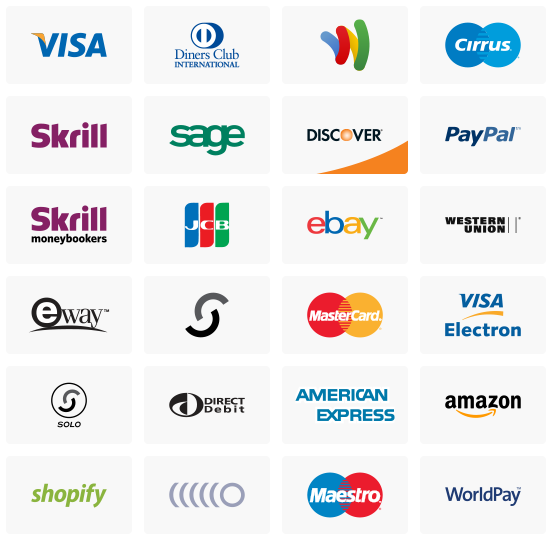
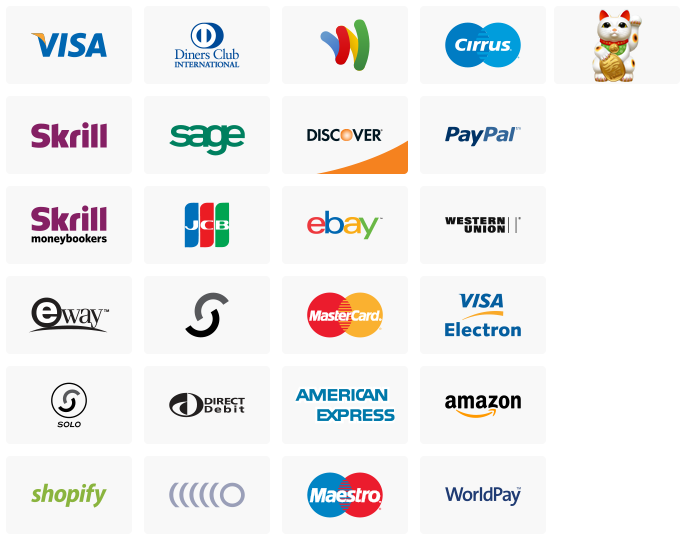
Progress

diff --git a/src/components/cc-input/cc-input.tsx b/src/components/cc-input/cc-input.tsx
@@ -5,28 +5,35 @@ import {
 } from '@stencil/core';
 
 @Component({
-    tag: "cc-input",
-    styleUrl: "cc-input.scss",
+    tag: 'cc-input',
+    styleUrl: 'cc-input.scss',
     shadow: true
 })
 export class CcInputComponent {
     @Prop() cards: string;
-    @State() cardType: string;
+    @State() acceptAllCards: boolean;
+    @State() cardVendor: string = 'cat';
     @State() isValid: boolean;
-
-    public props = {
-        class: `cc-icon ${this.cardType}`
-    };
+    @State() shake: string = '';
 
     render() {
-        const cards = this.cards.split(",");
-        const cardItems = cards.map(card => <li>{card}</li>);
-        let cardType = `cc-icon ${this.cardType}`;
+        let cardItems;
+
+        if (this.cards.split(',').length === 0) {
+            this.acceptAllCards = true;
+        } else {
+            this.acceptAllCards = false;
+            const cards = this.cards.split(',');
+            cardItems = cards.map(card => <li>{card}</li>);
+        }
+
+        const cardVendor = `cc-icon ${this.cardVendor}`;
+        const gridClass = `grid-mc-gridface ${this.shake}`
 
         return (
-            <div class="grid-mc-gridface">
+            <div class={gridClass}>
                 <span class="cc-input-wrapper cc-material">
-                    <span class={cardType} />
+                    <span class={cardVendor} />
 
                     <input
                         onKeyDown={event => this.handleInput(event)}
@@ -52,7 +59,7 @@ export class CcInputComponent {
                 </span>
                 <div class="allowed-cards-hint">
                     <span>We accept the following cards</span>
-                    <ul>{cardItems}</ul>
+                    <ul>{ cardItems }</ul>
                 </div>
             </div>
         );
@@ -66,12 +73,16 @@ export class CcInputComponent {
      */
     isNumber(e: any): boolean {
         const charCode = e.which ? e.which : e.keyCode;
-        if (charCode > 31 && (charCode < 48 || charCode > 57)) {
-            e.preventDefault();
 
+        // Letters
+        if (charCode > 31 && (charCode < 48 || charCode > 57)) {
+            this.shake = 'shaker';
+
+            e.preventDefault();
             return false;
         }
 
+        this.shake = '';
         return true;
     }
 
@@ -82,9 +93,8 @@ export class CcInputComponent {
      * @param {string} cardNumber
      * @returns {string}
      */
-    getCardType(cardNumber: string): string {
+    getCardVendor(cardNumber: string): string {
         const visaRegEx = new RegExp('^4');
-        const mastercardRegEx = new RegExp('/^(5[1-5][0-9]{14}|2(22[1-9][0-9]{12}|2[3-9][0-9]{13}|[3-6][0-9]{14}|7[0-1][0-9]{13}|720[0-9]{12}))$/');
         const amexRegEx = new RegExp('^3[47]');
 
         // Visa
@@ -93,7 +103,7 @@ export class CcInputComponent {
         }
 
         // Mastercard
-        if (mastercardRegEx.test(cardNumber) !== null) {
+        if (/^(5[1-5][0-9]{14}|2(22[1-9][0-9]{12}|2[3-9][0-9]{13}|[3-6][0-9]{14}|7[0-1][0-9]{13}|720[0-9]{12}))$/.test(cardNumber)) {
             return 'mastercard';
         }
 
@@ -101,6 +111,8 @@ export class CcInputComponent {
         if (cardNumber.match(amexRegEx) !== null) {
             return 'amex';
         }
+
+        return 'cat';
     }
 
     /**
@@ -110,8 +122,8 @@ export class CcInputComponent {
      */
     handleInput(e: any) {
         if (this.isNumber(e)) {
-            console.log(this.getCardType(e.target.value));
-            this.cardType = this.getCardType(e.target.value);
+            console.log(this.getCardVendor(e.target.value));
+            this.cardVendor = this.getCardVendor(e.target.value);
 
             return false;
         }

diff --git a/src/components.d.ts b/src/components.d.ts
@@ -2,16 +2,14 @@
  * This is an autogenerated file created by the Stencil compiler.
  * It contains typing information for all components that exist in this project.
  */
+/* tslint:disable */
 
 import '@stencil/core';
 
-declare global {
-  namespace JSX {
-    interface Element {}
-    export interface IntrinsicElements {}
-  }
-  namespace JSXElements {}
 
+
+
+declare global {
   interface HTMLElement {
     componentOnReady?: () => Promise<this | null>;
   }
@@ -23,41 +21,45 @@ declare global {
   }
 
   interface HTMLAttributes {}
-}
-
-
-declare global {
 
   namespace StencilComponents {
+
     interface CcInput {
       'cards': string;
     }
   }
 
-  interface HTMLCcInputElement extends StencilComponents.CcInput, HTMLStencilElement {}
 
-  var HTMLCcInputElement: {
-    prototype: HTMLCcInputElement;
-    new (): HTMLCcInputElement;
-  };
-  interface HTMLElementTagNameMap {
-    'cc-input': HTMLCcInputElement;
-  }
-  interface ElementTagNameMap {
-    'cc-input': HTMLCcInputElement;
-  }
+    interface HTMLCcInputElement extends StencilComponents.CcInput, HTMLStencilElement {}
+
+    var HTMLCcInputElement: {
+      prototype: HTMLCcInputElement;
+      new (): HTMLCcInputElement;
+    };
+    
+
   namespace JSX {
-    interface IntrinsicElements {
-      'cc-input': JSXElements.CcInputAttributes;
+    interface Element {}
+    export interface IntrinsicElements {
+    'cc-input': JSXElements.CcInputAttributes;
     }
   }
+
   namespace JSXElements {
+
     export interface CcInputAttributes extends HTMLAttributes {
       'cards'?: string;
     }
   }
-}
 
+  interface HTMLElementTagNameMap {
+    'cc-input': HTMLCcInputElement
+  }
+
+  interface ElementTagNameMap {
+    'cc-input': HTMLCcInputElement;
+  }
+}
 declare global { namespace JSX { interface StencilJSX {} } }
 
 export declare function defineCustomElements(window: any): void;

diff --git a/src/components/cc-input/cc-input.scss b/src/components/cc-input/cc-input.scss
@@ -2,6 +2,33 @@ $md-focus: #1e88e5;
 $md-gray: #9e9e9e;
 $md-light-gray: #e0e0e0;
 
+@mixin standard-curve($property, $timing) {
+    transition: $property $timing cubic-bezier(0.4, 0, 0.2, 1);
+}
+
+@keyframes shake {
+    10%, 90% {
+      transform: translate3d(-1px, 0, 0);
+    }
+
+    20%, 80% {
+      transform: translate3d(2px, 0, 0);
+    }
+
+    30%, 50%, 70% {
+      transform: translate3d(-4px, 0, 0);
+    }
+
+    40%, 60% {
+      transform: translate3d(4px, 0, 0);
+    }
+}
+
+.shaker {
+    animation: shake 0.82s cubic-bezier(.36, .07, .19, .97) both;
+    transform: translate3d(0, 0, 0);
+}
+
 @font-face {
     font-family: 'Material Icons';
     font-style: normal;
@@ -22,9 +49,6 @@ $md-light-gray: #e0e0e0;
     font-style: normal;
 }
 
-@mixin standard-curve($property, $timing) {
-    transition: $property $timing cubic-bezier(0.4, 0, 0.2, 1);
-}
 
 * {
     box-sizing: border-box;
@@ -33,7 +57,7 @@ $md-light-gray: #e0e0e0;
 .grid-mc-gridface {
     display: inline-grid;
     grid-column-gap: 20px;
-    grid-template-columns: 400px 140px;
+    grid-template-columns: 400px 85px;
     grid-template-rows: 82px;
 }
 
@@ -73,8 +97,11 @@ input[type='text'] {
 }
 
 .cc-icon {
+    background-color: #fff;
     background-image: url('assets/cc-icons.png');
     background-repeat: no-repeat;
+    border-bottom-left-radius: 5px;
+    border-top-left-radius: 5px;
     height: 80px;
     width: 128px;
 }
@@ -153,6 +180,10 @@ input[type='text'] {
 }
 
 // CC-Icons----------------------------
+.cat {
+    background-position: -554px -5px;
+}
+
 .visa {
     background-position: -5px -5px;
 }

diff --git a/src/index.html b/src/index.html
@@ -9,6 +9,24 @@
         <script src="/build/ccinput.js"></script>
     </head>
     <body>
+        <style>
+            body {
+                align-items: center;
+                background: linear-gradient(to right, #8e9eab, #eef2f3);
+                display: flex;
+                flex-direction: column;
+                height: 100vh;
+                justify-content: center;
+                margin: 0;
+            }
+
+            h1 {
+                color: #424242;
+                font-family: 'Roboto', sans-serif;
+                font-size: 28pt;
+            }
+        </style>
+        <h1>Custom-Element w/ Stencil</h1>
         <cc-input cards="Visa, Mastercard"></cc-input>
     </body>
 </html>
